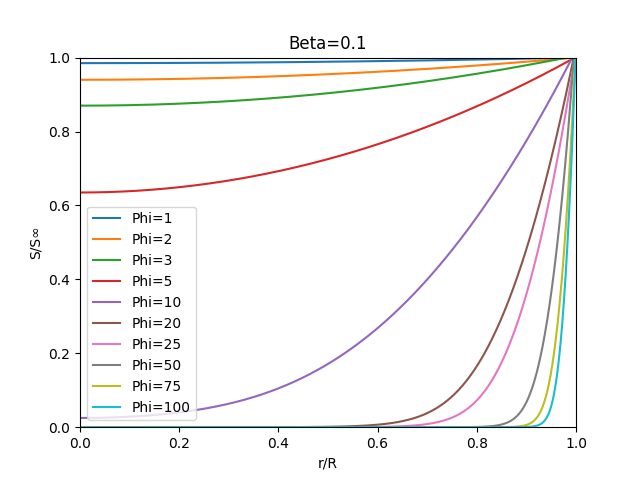
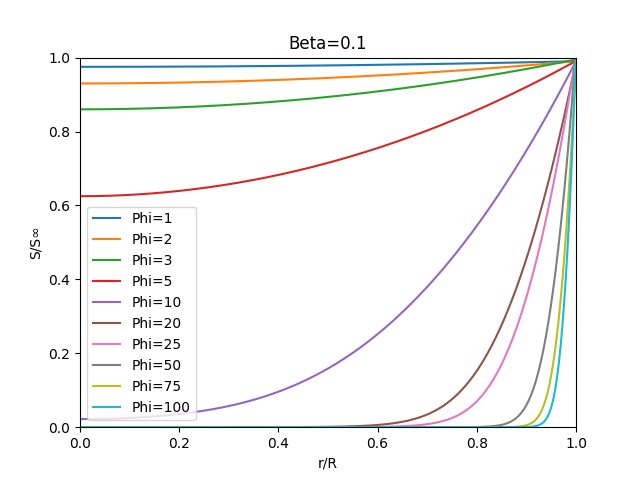
Change Conditions

diff --git a/SvsR.py b/SvsR.py
@@ -9,7 +9,7 @@ import matplotlib.pyplot as plt
 
 #___CONSTANTES__#
 dr=5e-4
-Beta=np.array([10])
+Beta=np.array([0.01,0.05,0.1,0.5,1,5,10])
 Phi=np.array([1,2,3,5,10,20,25,50,75,100])
 
 #_____GENERAR VECTOR DE RADIOS____#
@@ -56,7 +56,7 @@ def SvsR(phi,beta):
     So=0
     C2=0
     while True:
-        if 0.9<S[R.size-1] and C2==0:
+        if 0.9<S[R.size-1] and C2==0 and beta>1:
             dSo=dSo*0.05
             C2=1
         for i in range(R.size):
@@ -97,6 +97,5 @@ for B in Beta:
     plt.title("Beta={}".format(B))
     plt.xlabel("r/R")
     plt.ylabel("S/S∞")
-    # plt.savefig("Beta-{}.png".for
-    # mat(B))
+    plt.savefig("Images/Beta-{}.png".format(B))
     plt.show()
